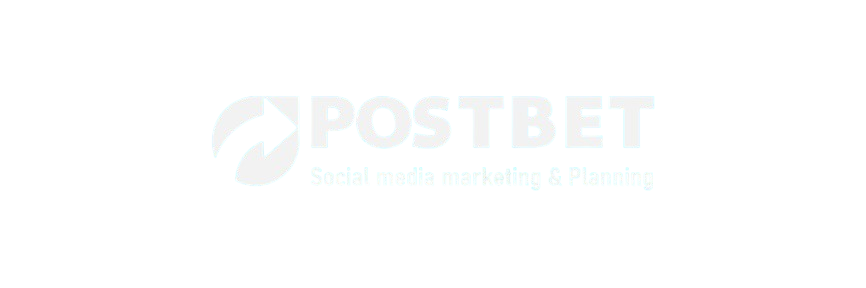
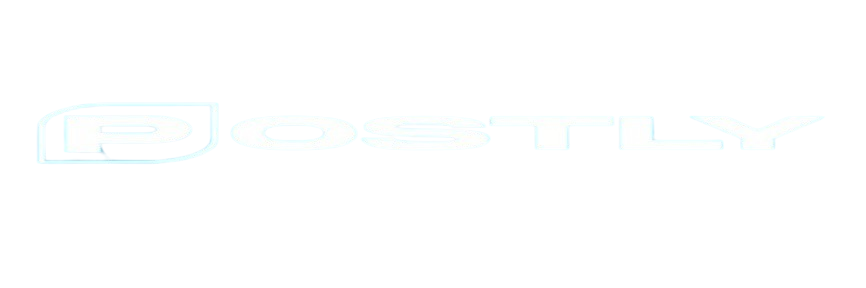
postly transformation

diff --git a/src/pages/About/About.jsx b/src/pages/About/About.jsx
@@ -30,7 +30,7 @@ function About() {
               <AccordionIcon />
             </AccordionButton>
             <AccordionPanel pb={4}>
-              {t("PostBet is an Emirati app owned by an Emirati company and based in the United Arab Emirates. It aims to facilitate the management and publication of content across various social media platforms effectively and quickly. We offer a complete solution for content creators, businesses, marketers, and even individuals to publish photos and videos simultaneously with ease.")}
+              {t("Postly is an Emirati app owned by an Emirati company and based in the United Arab Emirates. It aims to facilitate the management and publication of content across various social media platforms effectively and quickly. We offer a complete solution for content creators, businesses, marketers, and even individuals to publish photos and videos simultaneously with ease.")}
             </AccordionPanel>
           </AccordionItem>
           <AccordionItem>
@@ -42,7 +42,7 @@ function About() {
             </AccordionButton>
             <AccordionPanel pb={4}>
               {t(
-               "PostBet provides smart tools for editing content before publishing, and the ability to upload and publish multiple files at once. Additionally, we offer AI technology that helps you create unique content based on your descriptions."
+               "Postly provides smart tools for editing content before publishing, and the ability to upload and publish multiple files at once. Additionally, we offer AI technology that helps you create unique content based on your descriptions."
               )}
             </AccordionPanel>
           </AccordionItem>
@@ -55,7 +55,7 @@ function About() {
             </AccordionButton>
             <AccordionPanel pb={4}>
               {t(
-                "We aim to empower individuals and businesses to scale their digital presence with less effort and greater results. PostBet is your ideal partner for managing digital content in a smart and fast way."
+                "We aim to empower individuals and businesses to scale their digital presence with less effort and greater results. Postly is your ideal partner for managing digital content in a smart and fast way."
               )}
             </AccordionPanel>
           </AccordionItem>
@@ -120,7 +120,7 @@ function About() {
             </AccordionButton>
             <AccordionPanel pb={4}>
               {t(
-                "From social media management platforms like Postbet to custom-built software and mobile apps, we offer a wide range of services designed to fuel digital transformation."
+                "From social media management platforms like Postly to custom-built software and mobile apps, we offer a wide range of services designed to fuel digital transformation."
               )}
             </AccordionPanel>
           </AccordionItem>

diff --git a/src/pages/Home/Home.jsx b/src/pages/Home/Home.jsx
@@ -11,7 +11,7 @@ import { useTypewriter } from "react-simple-typewriter";
 
 function Home() {
   const [text] = useTypewriter({
-    words : [t("PostBet")],
+    words : [t("PostLy")],
     loop : {} ,
     typeSpeed : 120 ,
     deleteSpeed : 80
@@ -52,7 +52,7 @@ function Home() {
       </div>
       <div className="container sectionHome">
         <div className="title">
-          <h1>{t("What is Post Bet ?")}</h1>
+          <h1>{t("What is Postly ?")}</h1>
           <img src={line} alt="" />
         </div>
         <div className="flex">
@@ -62,7 +62,7 @@ function Home() {
           </div>
           <div className="content">
             <p>
-              {t("PostBet is a cutting-edge application that aims to make it easier and faster to manage and publish content across multiple social media platforms. We provide a complete solution for content creators, businesses, marketers, and even individual users to publish photos and videos on platforms like Instagram, Facebook, X, TikTok, YouTube, etc., simultaneously and with ease.")}
+              {t("Postly is a cutting-edge application that aims to make it easier and faster to manage and publish content across multiple social media platforms. We provide a complete solution for content creators, businesses, marketers, and even individual users to publish photos and videos on platforms like Instagram, Facebook, X, TikTok, YouTube, etc., simultaneously and with ease.")}
             </p>
           </div>
         </div>

diff --git a/src/pages/PrivcyPolicy/PrivcyPolicy.jsx b/src/pages/PrivcyPolicy/PrivcyPolicy.jsx
@@ -21,7 +21,7 @@ function PrivcyPolicy() {
               </div>
               <p className="info">
                 {t(
-                  "Users are allowed to create and share posts across their integrated social media platforms using Postbet."
+                  "Users are allowed to create and share posts across their integrated social media platforms using Postly."
                 )}
               </p>
             </div>
@@ -55,7 +55,7 @@ function PrivcyPolicy() {
               </div>
               <p className="info">
                 {t(
-                  "Users can access and utilize analytics tools provided by Postbet to track the performance of their posts and engagement metrics."
+                  "Users can access and utilize analytics tools provided by Postly to track the performance of their posts and engagement metrics."
                 )}
               </p>
             </div>
@@ -126,7 +126,7 @@ function PrivcyPolicy() {
               </div>
               <p className="info">
                 {t(
-                  "Users are prohibited from attempting to bypass any security measures in place on the Postbet platform."
+                  "Users are prohibited from attempting to bypass any security measures in place on the Postly platform."
                 )}
               </p>
             </div>

diff --git a/index.html b/index.html
@@ -10,7 +10,7 @@
       crossorigin="anonymous"
       referrerpolicy="no-referrer"
     />
-    <title>PostBet</title>
+    <title>Postly</title>
   </head>
   <body>
     <div id="root"></div>
